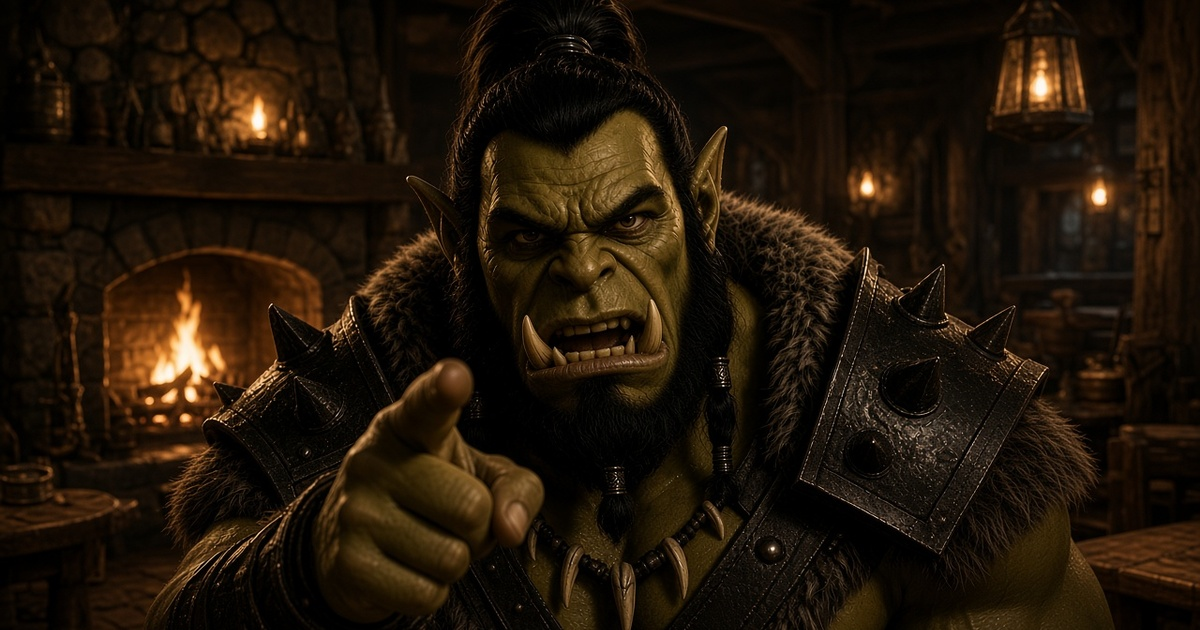
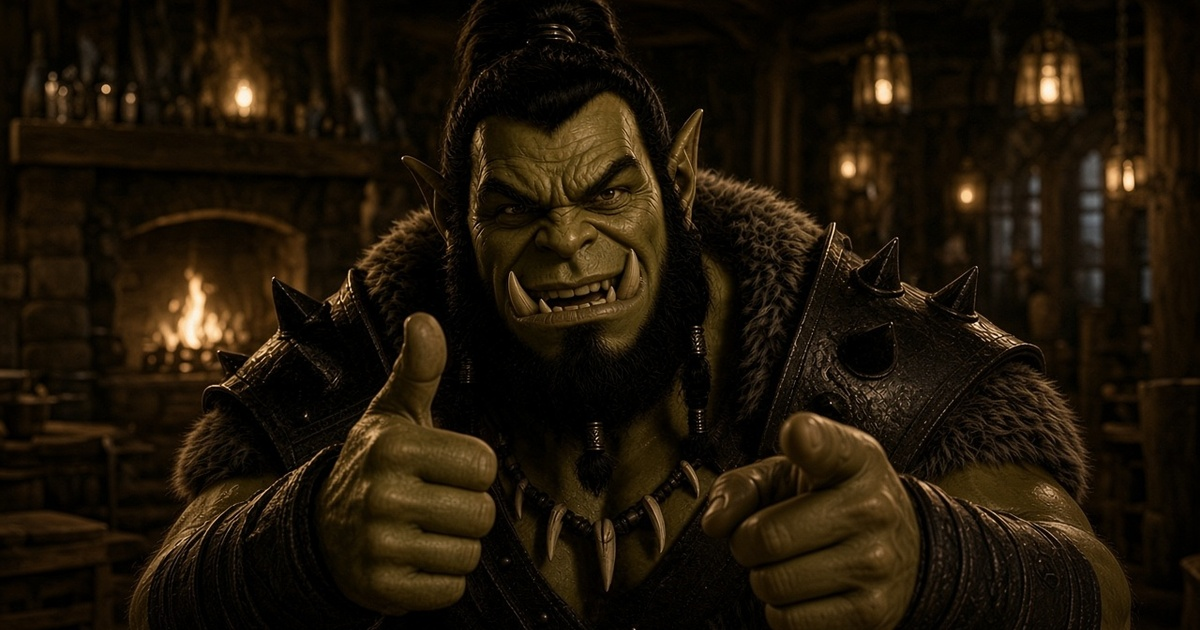
Reshoot Do it as an encouraging you-got-this.

diff --git a/scripts/imagine-video.ts b/scripts/imagine-video.ts
@@ -35,7 +35,7 @@ const PROMPTS: Record<string, string> = {
   dance:
     "The orc dances, swaying and stepping, arms moving to the groove, joyful grin holding. Locked camera.",
   doit:
-    "The orc leans in and jabs a finger at the camera, intense command, a short urgent nod. Locked camera.",
+    "The orc grins warmly, gives an encouraging thumbs-up, and a small you-got-this nod. Locked camera.",
   doubt:
     "The orc raises one eyebrow, tilts his head, and side-eyes the camera with a skeptical look. Subtle breathing. Locked camera, no zoom.",
   ew: "The orc recoils slightly, wrinkles his nose in disgust, and gives a small shake of the head. Locked camera.",
